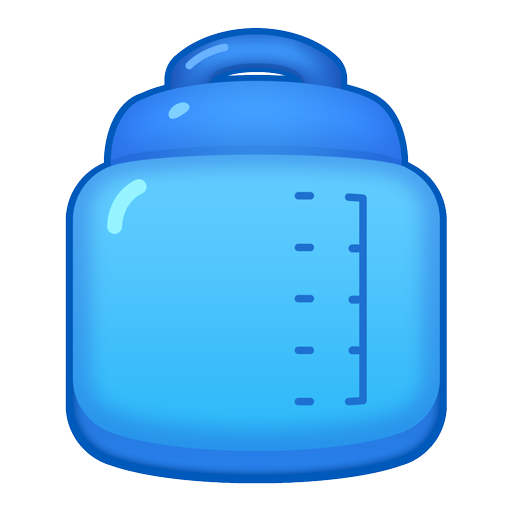
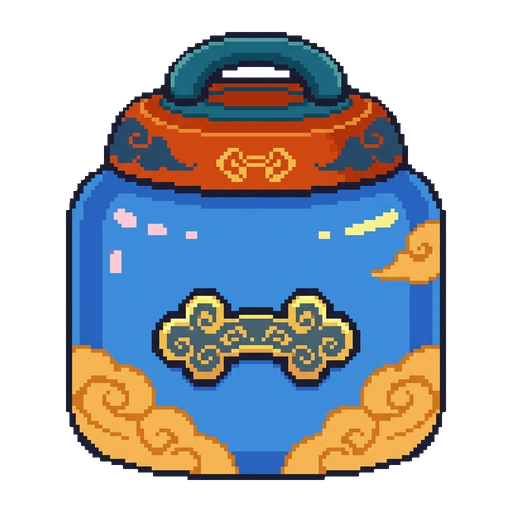
hot fix

diff --git a/pages/6_AI_Art_Lab.py b/pages/6_AI_Art_Lab.py
@@ -315,61 +315,61 @@ def _handle_click(r: int, c: int) -> None:
 
 
 def _render_game_panel() -> None:
-    st.subheader('2 · 遊戲遊玩畫面')
+    st.subheader('2 · 遊戲遊玩畫面 (Godot)')
 
     top = st.columns([1, 1, 2])
     with top[0]:
-        if st.button('新盤面', use_container_width=True):
-            _new_board()
+        if st.button('重新載入遊戲', use_container_width=True):
+            st.session_state.art_godot_buster = int(time.time())
             st.rerun()
     with top[1]:
-        if st.button('打亂', use_container_width=True):
-            st.session_state.art_env.board.shuffle()
-            st.session_state.art_selected = None
-            st.rerun()
+        st.link_button('新分頁開啟', url=GODOT_URL, use_container_width=True)
     with top[2]:
         if st.session_state.art_applied_run:
-            st.caption(f'已套用 run: `{st.session_state.art_applied_run}`')
+            st.caption(f'已套用 run: `{st.session_state.art_applied_run}` — 重載後看新元素')
         else:
-            st.caption('生成後按「套用到遊戲」即可在此看到新元素')
+            st.caption('生成 → 套用到遊戲 → 按「重新載入遊戲」')
 
-    env = st.session_state.art_env
-    click = match3_board(
-        env,
-        mode='play',
-        selected=st.session_state.art_selected,
-        cell_size=60,
-        asset_version=st.session_state.art_asset_version,
-        key='art_lab_board',
-    )
-    if click and click.get('type') == 'click':
-        _handle_click(click['r'], click['c'])
-        st.rerun()
-
-    st.caption('點兩個相鄰元素交換試玩。此盤面即時反映已套用的美術,不需 Godot 重新匯出。')
-
-    with st.expander('Godot 美術版(需 CI 重新 Export 後才會反映新美術)', expanded=False):
-        cols = st.columns([2, 1])
-        with cols[0]:
-            if _godot_up():
-                st.success('Godot server 運行中')
-            else:
-                st.info('Godot server 未啟動(`./run.sh`)')
-        with cols[1]:
-            st.link_button('新分頁開啟', url=GODOT_URL, use_container_width=True)
-        if _godot_up():
-            buster = st.session_state.art_godot_buster
-            components.iframe(f'{GODOT_URL}?v={buster}', height=640, scrolling=False)
+    if _godot_up():
+        st.success('Godot server 運行中 (localhost:8765)')
+        buster = st.session_state.art_godot_buster
+        components.iframe(f'{GODOT_URL}?v={buster}', height=820, scrolling=False)
         st.caption(
-            '目前線上的 `index.pck` 是舊版,尚未含 ArtTheme autoload。'
-            '需透過 GitHub Actions(deploy-godot-pages)重新 Export 才會載入 live_sprites。'
+            '這是 **Godot 本機遊戲**（與正式版相同渲染）。'
+            '套用美術會寫入 `live_sprites/`，重載 iframe 即可看到新 5 色元素。'
         )
+    else:
+        st.warning(
+            'Godot server 未啟動。請在專案根目錄執行 `./run.sh`（不要只用 `--streamlit-only`）。'
+        )
+        st.code('./run.sh\n# 然後重新整理此頁', language='bash')
+
+    with st.expander('Streamlit 簡易盤面（備用預覽,非 Godot 渲染）', expanded=False):
+        c1, c2 = st.columns(2)
+        with c1:
+            if st.button('新盤面', key='art_new_board', use_container_width=True):
+                _new_board()
+                st.rerun()
+        with c2:
+            if st.button('打亂', key='art_shuffle', use_container_width=True):
+                st.session_state.art_env.board.shuffle()
+                st.session_state.art_selected = None
+                st.rerun()
+        env = st.session_state.art_env
+        click = match3_board(
+            env, mode='play', selected=st.session_state.art_selected,
+            cell_size=56, asset_version=st.session_state.art_asset_version,
+            key='art_lab_board',
+        )
+        if click and click.get('type') == 'click':
+            _handle_click(click['r'], click['c'])
+            st.rerun()
 
 
 def main() -> None:
     _init_state()
     st.title('AI Game Art Lab')
-    st.caption('用 art_pipeline 生成遊戲美術,即時套用到可玩盤面')
+    st.caption('用 art_pipeline 生成美術 → 套用到 Godot 遊戲（右側）')
 
     left, right = st.columns([1, 1.4], gap='large')
     with left: